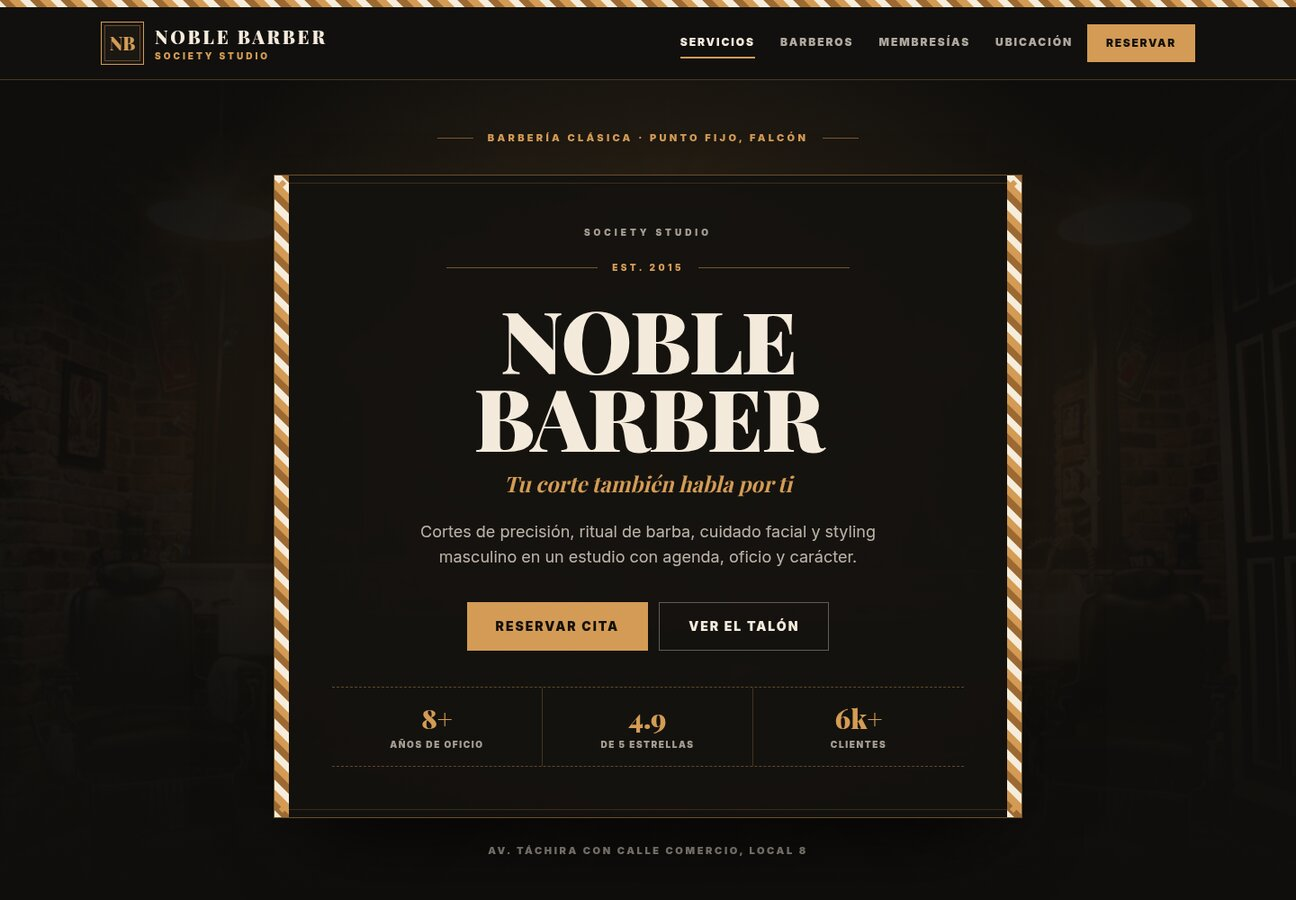
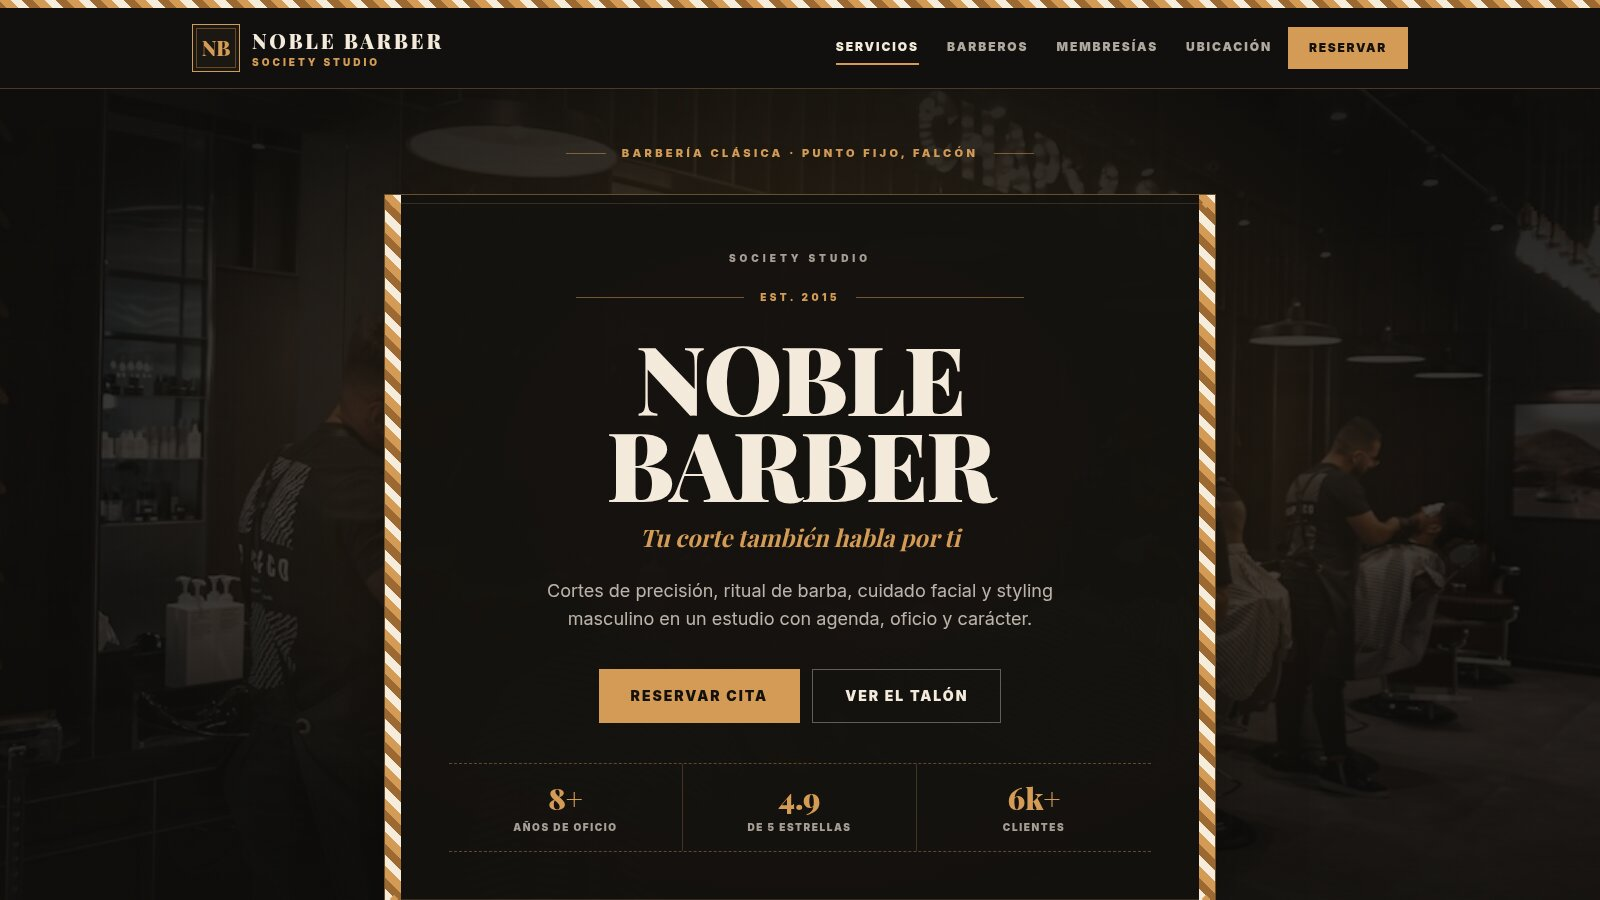
docs: portada nueva tras motion y mapa

diff --git a/README.md b/README.md
@@ -4,7 +4,7 @@
 
 [![CI](https://github.com/AvilaCarlosDev/web-barberia-demo/actions/workflows/ci.yml/badge.svg)](https://github.com/AvilaCarlosDev/web-barberia-demo/actions/workflows/ci.yml) [![Licencia: MIT](https://img.shields.io/badge/licencia-MIT-green.svg)](LICENSE) [![Demo en vivo](https://img.shields.io/badge/demo%20en%20vivo-Vercel-000?logo=vercel)](https://agencia-web-barberia-demo.vercel.app)
 
-<a href="https://agencia-web-barberia-demo.vercel.app"><img src="docs/portada.jpg" alt="Noble Barber en la computadora y en el teléfono: portada con servicios, precios y reserva por WhatsApp" width="100%"></a>
+<a href="https://agencia-web-barberia-demo.vercel.app"><img src="docs/portada.jpg" alt="Noble Barber Society: portada con propuesta, reserva por WhatsApp y cifras del estudio" width="100%"></a>
 
 Sitio web de demostración, de una sola página: barbería premium con menú de servicios filtrable, barberos, membresías y reservas por WhatsApp.
 

diff --git a/README.en.md b/README.en.md
@@ -4,7 +4,7 @@
 
 [![CI](https://github.com/AvilaCarlosDev/web-barberia-demo/actions/workflows/ci.yml/badge.svg)](https://github.com/AvilaCarlosDev/web-barberia-demo/actions/workflows/ci.yml) [![License: MIT](https://img.shields.io/badge/license-MIT-green.svg)](LICENSE) [![Live demo](https://img.shields.io/badge/live%20demo-Vercel-000?logo=vercel)](https://agencia-web-barberia-demo.vercel.app)
 
-<a href="https://agencia-web-barberia-demo.vercel.app"><img src="docs/portada.jpg" alt="Noble Barber on desktop and phone: cover with services, prices and WhatsApp booking" width="100%"></a>
+<a href="https://agencia-web-barberia-demo.vercel.app"><img src="docs/portada.jpg" alt="Noble Barber Society hero with tagline, WhatsApp booking CTA and studio figures" width="100%"></a>
 
 Demo one-page website for a premium barbershop: a filterable service menu, barbers, memberships and WhatsApp bookings.
 
